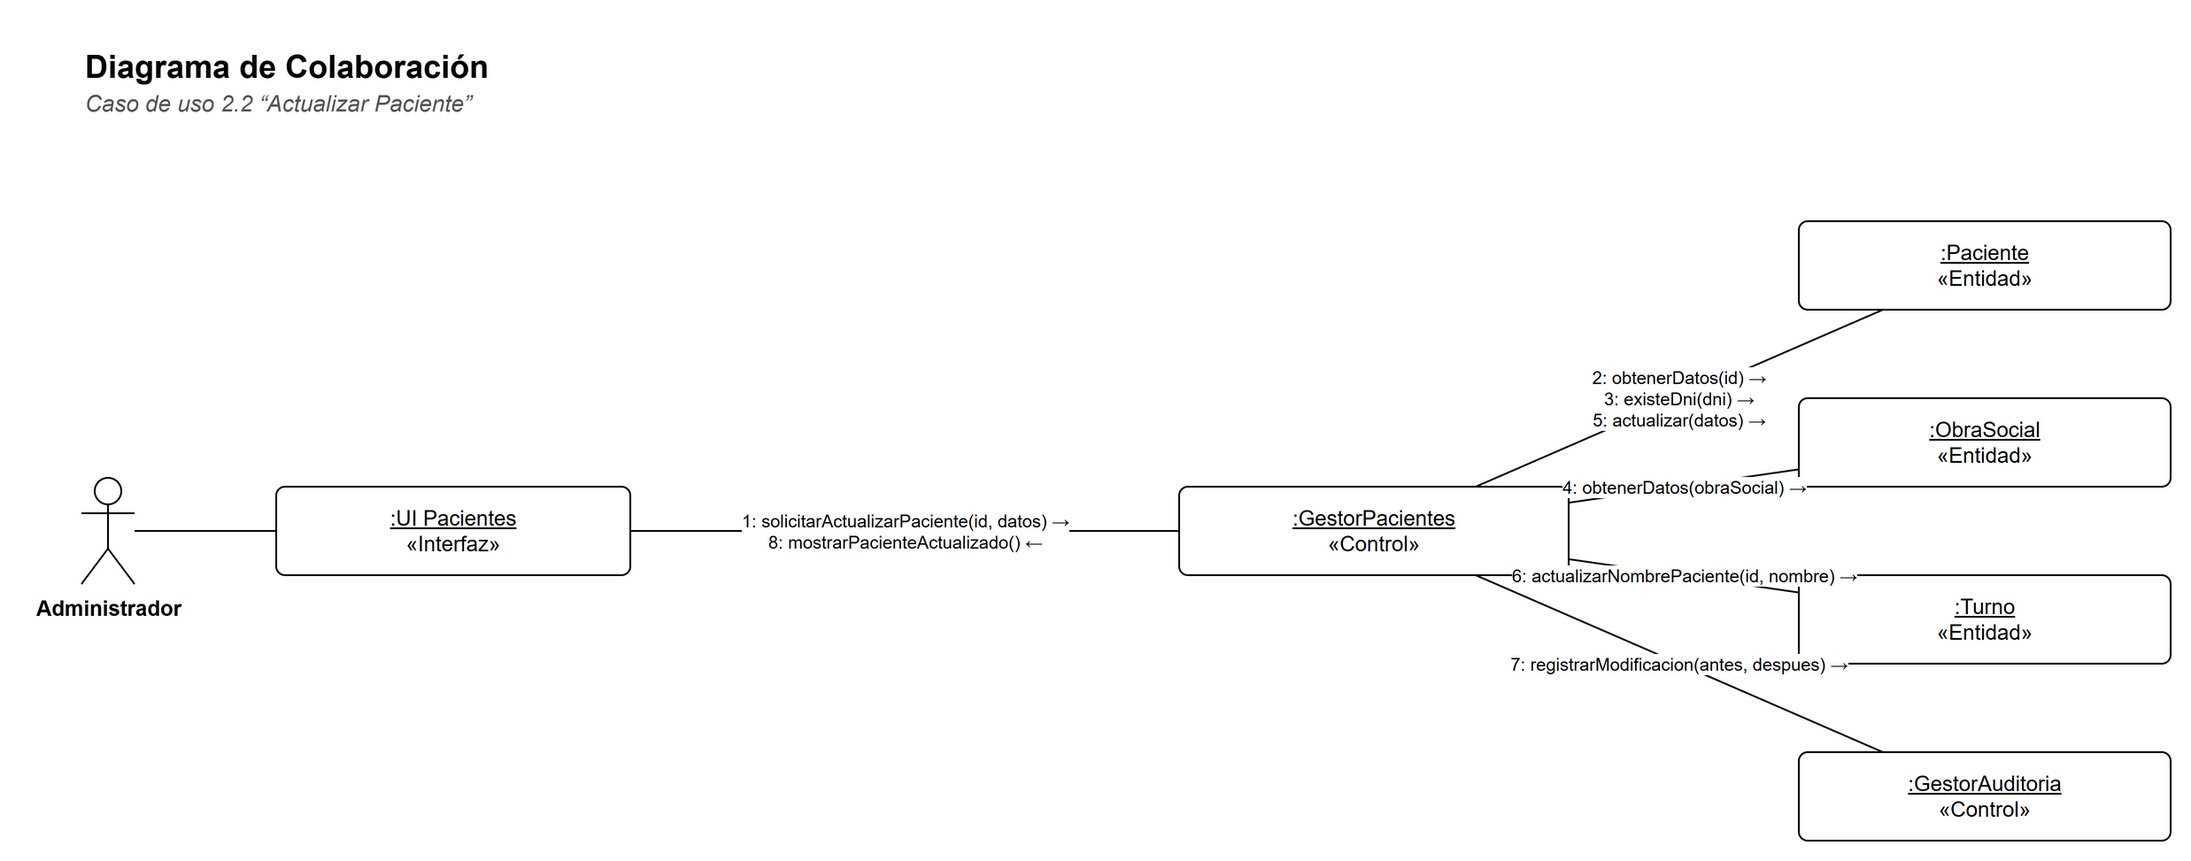
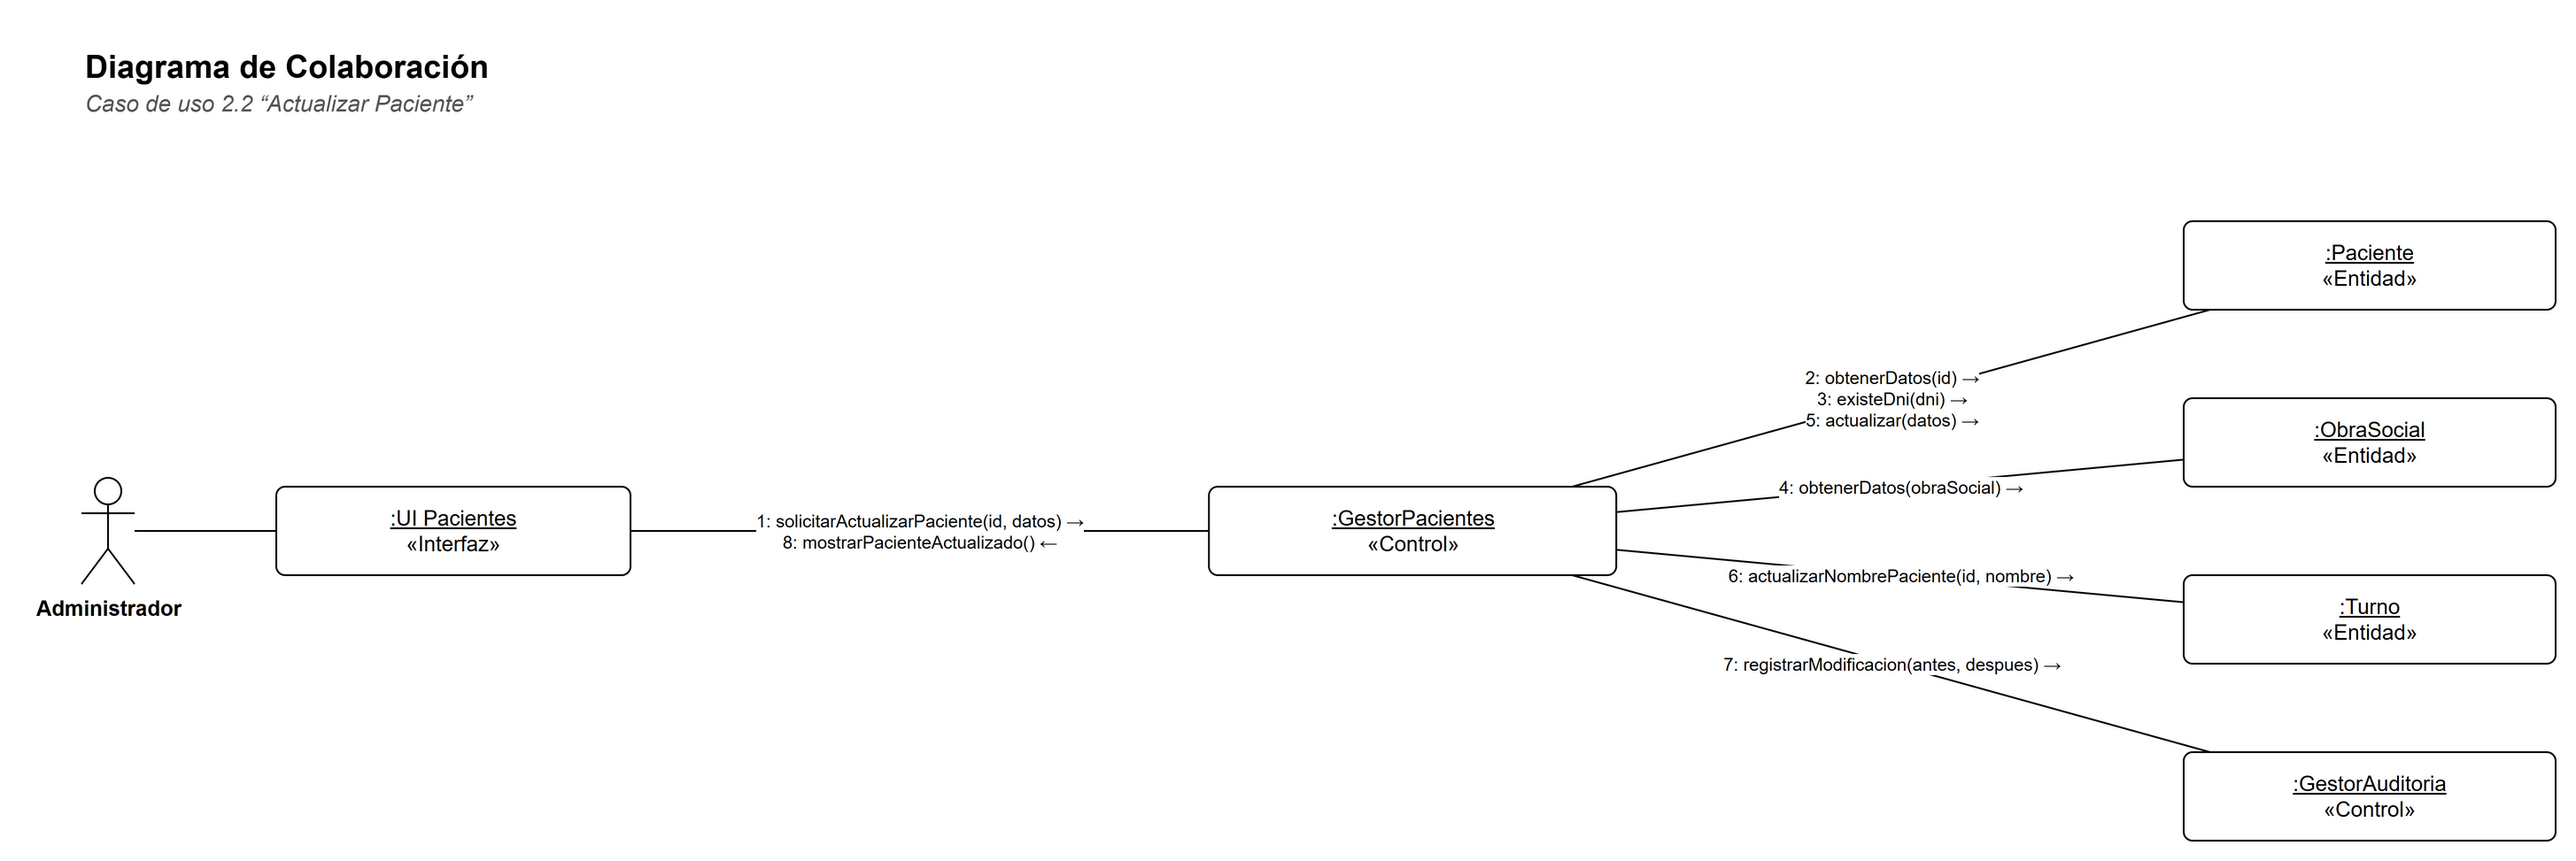
Colaboraciones: sin textos sobre las cajas
La separación entre interfaz, control y entidades se calcula según el
mensaje más largo de cada tramo. Interfaces del paquete Notificaciones
con el mismo formato que el resto (UI Página del Turno, API Recordatorios).

diff --git a/scripts/diagramas/drawio.py b/scripts/diagramas/drawio.py
@@ -651,26 +651,38 @@ def colaboracion(key, numero):
     actor_nombre = next(q for num, _, q in pk["casos"] if num == numero)[0]
     entidades = spec["entidades"]
     alto = max(len(entidades) * 100, 240) + 130
-    d = Diagram(f"colaboracion-{numero.replace('.', '-')}", 1230, alto)
-    d.title("Diagrama de Colaboración", f"Caso de uso {numero} “{nombre}”")
-    centro = 110 + (alto - 130) / 2
-    actor = d.actor(30, centro - 30, actor_nombre)
-    obj = "rounded=1;arcSize=10;"
-    ui = d.box(140, centro - 25, 200, 50, f"<u>:{spec['interfaz']}</u><br>«Interfaz»", obj)
-    ctrl = d.box(650, centro - 25, 220, 50, f"<u>:{spec['control']}</u><br>«Control»", obj)
-    ids = {"interfaz": ui, "control": ctrl}
-    paso = (alto - 130) / max(len(entidades), 1)
-    for i, ent in enumerate(entidades):
-        nombre_obj, estereo = _estereotipo(ent)
-        ids[ent] = d.box(1000, 110 + i * paso + paso / 2 - 25, 210, 50, f"<u>:{nombre_obj}</u><br>{estereo}", obj)
-    d.line(actor, ui)
+    rango = {"interfaz": 1, "control": 2}
     etiquetas = {}
     for origen, destino, texto in spec["mensajes"]:
         par = tuple(sorted((origen, destino)))
         # La flecha apunta hacia el destino según la posición: interfaz, control y entidades, de izquierda a derecha.
-        rango = {"interfaz": 1, "control": 2}
         flecha = " →" if rango.get(destino, 3) > rango.get(origen, 3) else " ←"
         etiquetas.setdefault(par, []).append(texto + flecha)
+
+    # Separación horizontal según el texto más largo de cada tramo, para que ningún mensaje
+    # toque las cajas: el texto va centrado en la línea, con margen a cada lado.
+    def ancho(textos):
+        return max(len(t) for t in textos) * 6.2 + 60
+
+    tramo_ui = max([ancho(t) for p, t in etiquetas.items() if "interfaz" in p] + [200])
+    tramo_ent = max([ancho(t) for p, t in etiquetas.items() if "interfaz" not in p] + [200])
+    # Las líneas hacia las entidades son oblicuas: el texto se apoya cerca del centro, que queda más lejos de las cajas.
+    x_ui, w_ui, w_ctrl, w_ent = 140, 200, 230, 210
+    x_ctrl = x_ui + w_ui + tramo_ui
+    x_ent = x_ctrl + w_ctrl + tramo_ent
+    d = Diagram(f"colaboracion-{numero.replace('.', '-')}", x_ent + w_ent + 30, alto)
+    d.title("Diagrama de Colaboración", f"Caso de uso {numero} “{nombre}”")
+    centro = 110 + (alto - 130) / 2
+    actor = d.actor(30, centro - 30, actor_nombre)
+    obj = "rounded=1;arcSize=10;"
+    ui = d.box(x_ui, centro - 25, w_ui, 50, f"<u>:{spec['interfaz']}</u><br>«Interfaz»", obj)
+    ctrl = d.box(x_ctrl, centro - 25, w_ctrl, 50, f"<u>:{spec['control']}</u><br>«Control»", obj)
+    ids = {"interfaz": ui, "control": ctrl}
+    paso = (alto - 130) / max(len(entidades), 1)
+    for i, ent in enumerate(entidades):
+        nombre_obj, estereo = _estereotipo(ent)
+        ids[ent] = d.box(x_ent, 110 + i * paso + paso / 2 - 25, w_ent, 50, f"<u>:{nombre_obj}</u><br>{estereo}", obj)
+    d.line(actor, ui)
     for (a_, b_), textos in etiquetas.items():
         d.line(ids[a_], ids[b_], "<br>".join(textos), style="fontSize=10;")
     d.write()

diff --git a/scripts/diagramas/paquetes_uml.py b/scripts/diagramas/paquetes_uml.py
@@ -509,7 +509,7 @@ PAQUETES = {
         "asociaciones": [("Notificacion", "Turno", "0..*", "1")],
         "colaboraciones": {
             "8.2": {
-                "interfaz": "API de recordatorios", "control": "GestorNotificaciones",
+                "interfaz": "API Recordatorios", "control": "GestorNotificaciones",
                 "entidades": ["Turno", "Notificacion", "ServicioDeCorreo"],
                 "mensajes": [
                     ("interfaz", "control", "1: encolarRecordatorios(ahora)"),
@@ -520,7 +520,7 @@ PAQUETES = {
                 ],
             },
             "8.3": {
-                "interfaz": "Página del turno", "control": "GestorNotificaciones",
+                "interfaz": "UI Página del Turno", "control": "GestorNotificaciones",
                 "entidades": ["Turno", "Auditoria"],
                 "mensajes": [
                     ("interfaz", "control", "1: verificarEnlace(token)"),
